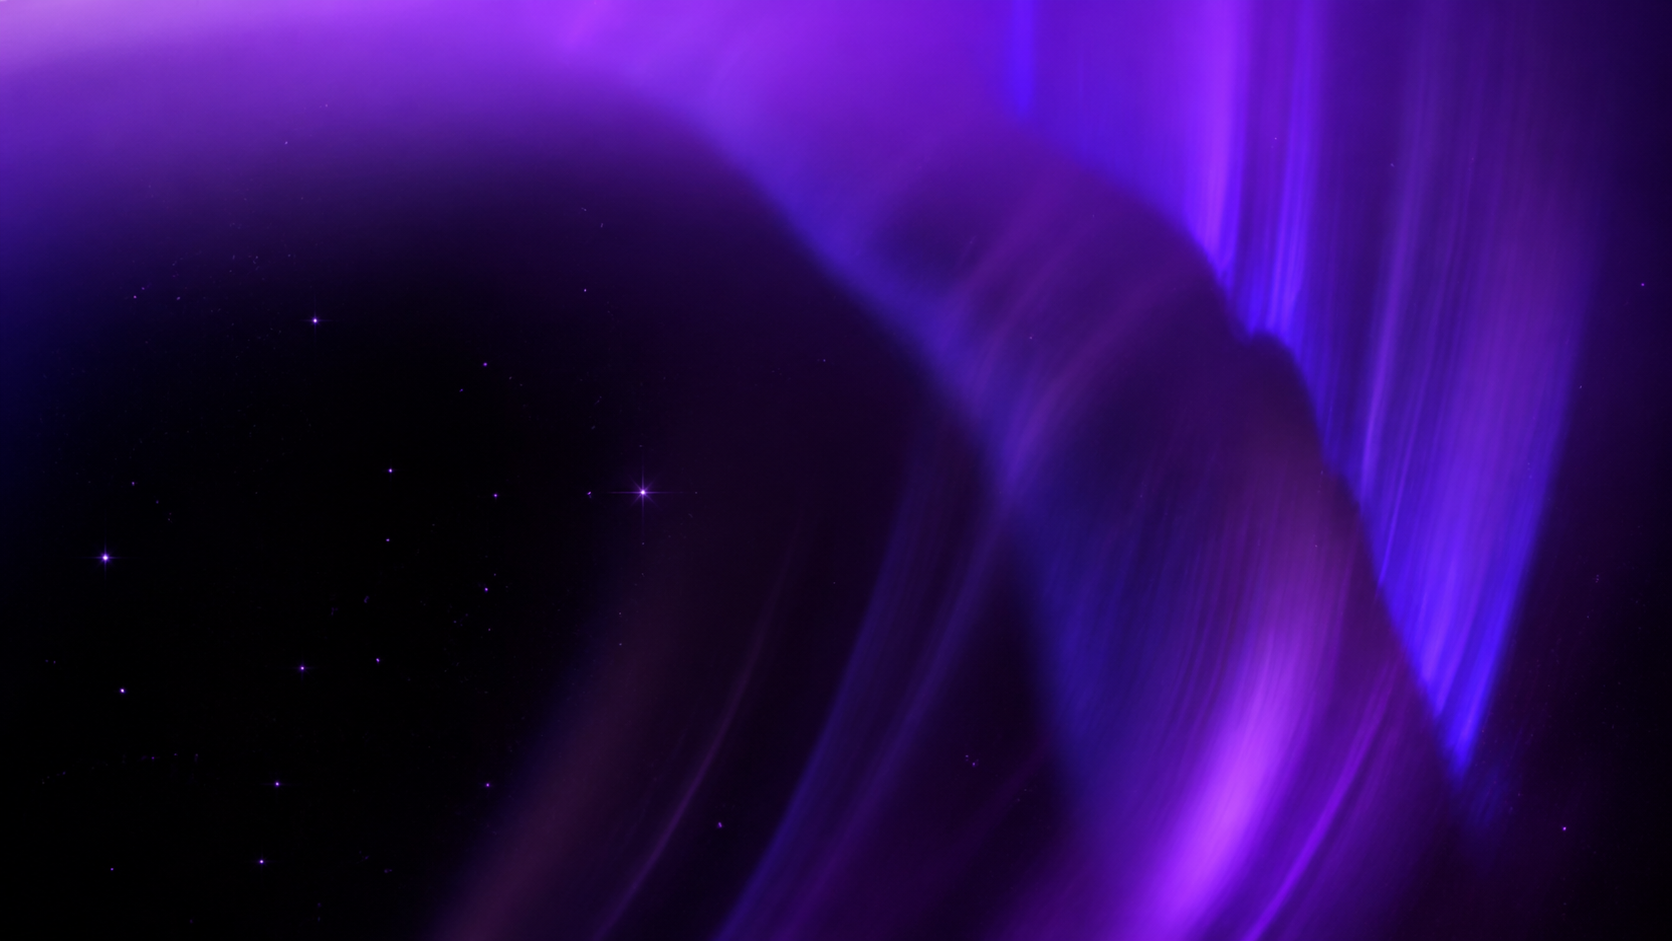
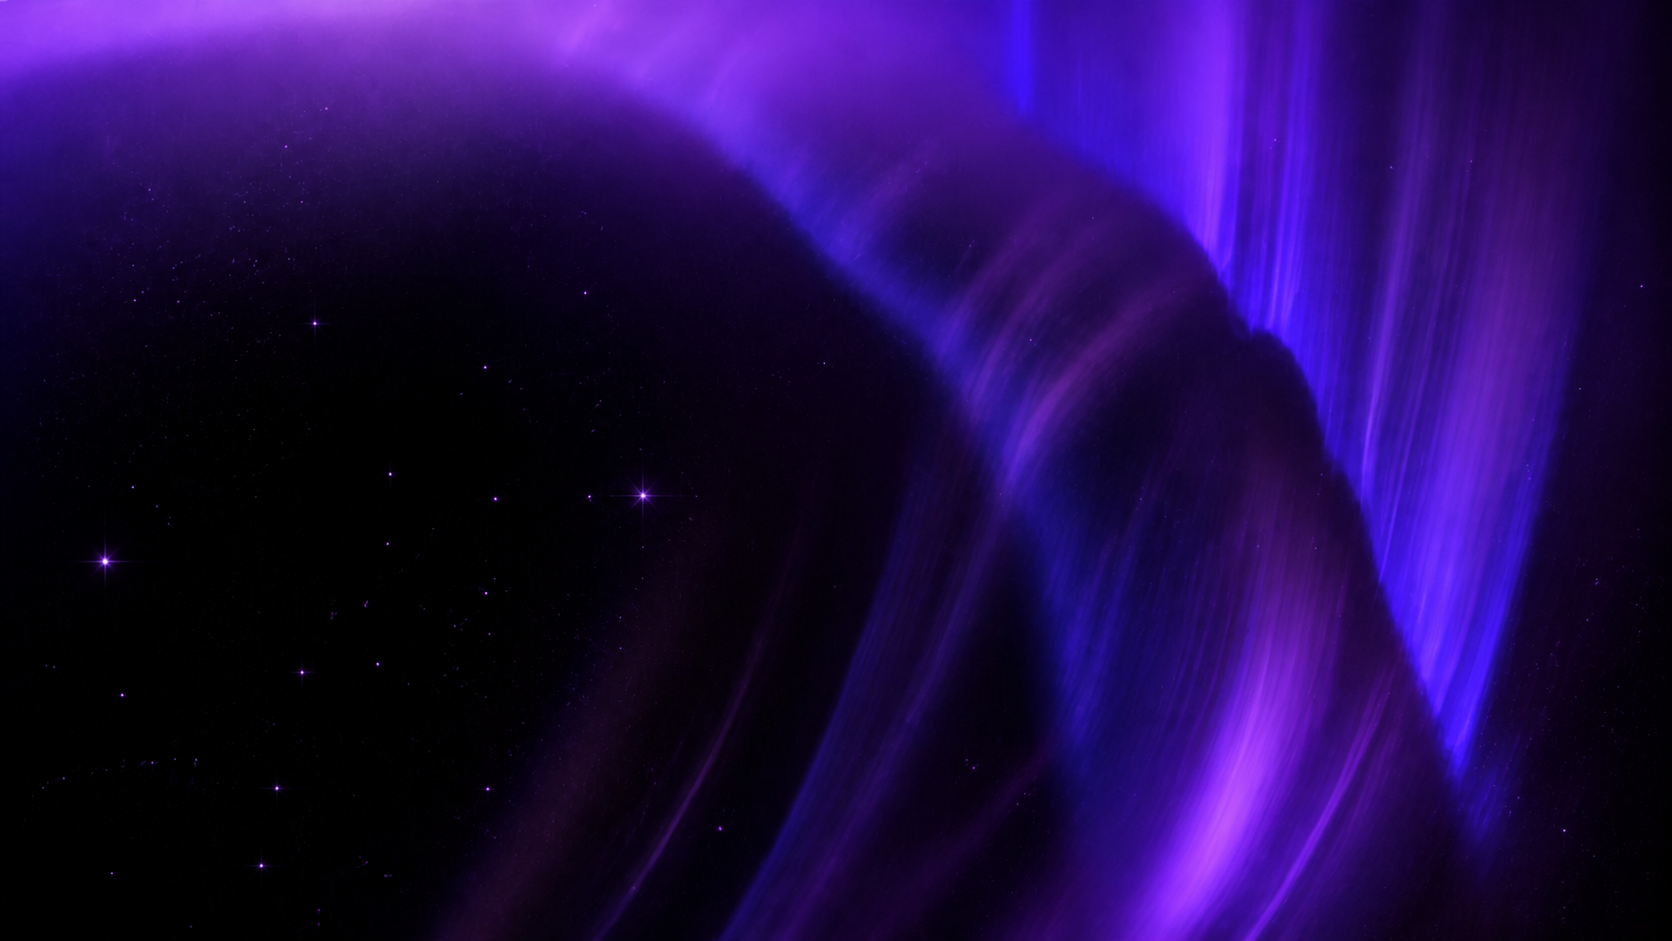
Restore Default GUI content clarity (#29)

diff --git a/README.md b/README.md
@@ -39,9 +39,12 @@ Standalone strict-Luau menu with a remote, PlaceId-driven game-module runtime.
 - Desktop shells use integer-pixel, aspect-fitted dimensions capped near 60% of
   wide displays instead of scaling the complete canvas, which keeps text and
   strokes crisp while preserving drag boundaries on viewport changes.
-- Runtime typography uses Builder Sans through `FontFace` for consistent,
-  crisp rendering; `Assets/Typography/title-logo.png` remains source artwork,
-  not an installable font family.
+- Runtime controls use native Builder Sans through `FontFace` for crisp text at
+  small sizes. The cached Candy Fruits font is reserved for the large loading
+  title, where a decorative OTF can render cleanly without softening controls.
+- The permanent shell and tab pages are ordinary `Frame` instances rather than
+  nested `CanvasGroup` textures, preventing Roblox from rasterizing interface
+  text at a reduced intermediate resolution.
 - Universal Fly provides Balanced, Direct and Precise response presets,
   independent horizontal/vertical speed and progressive advanced controls.
   Speed provides Adaptive, Smooth, Boost and Teleport modes plus acceleration,
